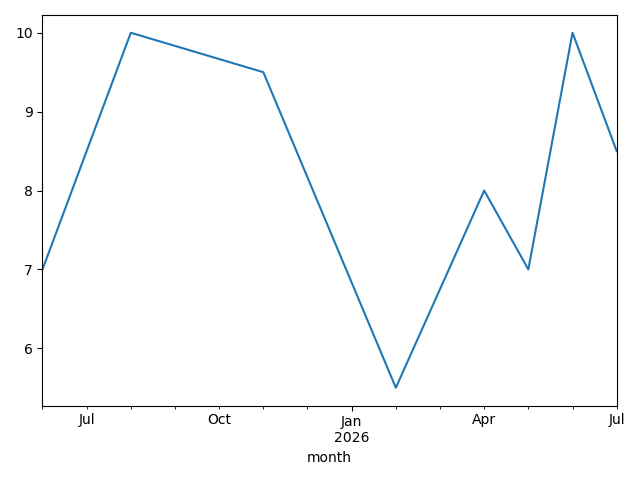
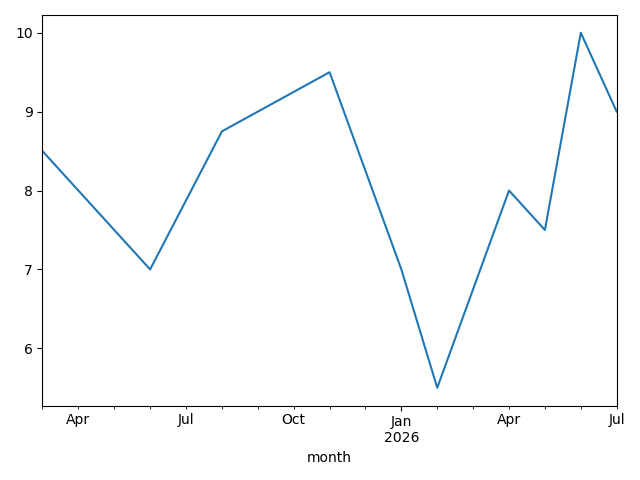
Added link to poster as well as other UI changes

diff --git a/templates/dashboard.html b/templates/dashboard.html
@@ -14,10 +14,12 @@
         <div class="movie-grid">
             {% for movie in movies %}
             <div class="movie-card">
-                <p>{{ movie.title }} ({{ movie.release_year }}) - My rating: {{ movie.my_rating }}</p>
-                {% if movie.poster_path %}
-                <img src="{{ TMDB_IMAGE_BASE_URL }}{{ movie.poster_path }}" alt="{{ movie.title }} Poster">
-                {% endif %}
+                <p>
+                    {% if movie.poster_path %}
+                    <img src="{{ TMDB_IMAGE_BASE_URL }}{{ movie.poster_path }}" alt="{{ movie.title }} Poster">
+                    {% endif %}
+                    {{ movie.title }} ({{ movie.release_year }}) - My rating: {{ movie.my_rating }}
+                </p>
             {% endfor %}
             </div>
         </div>

diff --git a/templates/movie_list.html b/templates/movie_list.html
@@ -13,10 +13,9 @@
             <div class="movie-card">
                 <p>
                     {% if movie.poster_path %}
-                    <img src="{{ TMDB_IMAGE_BASE_URL }}{{ movie.poster_path }}" alt="{{ movie.title }} Poster">
+                    <a href="/movies/{{ movie.id }}"><img src="{{ TMDB_IMAGE_BASE_URL }}{{ movie.poster_path }}" alt="{{ movie.title }} Poster"></a>
                     {% endif %}
-                    {{ movie.title }} ({{ movie.release_year }}) - {{ movie.my_rating }}/10.0
-                    <a href="/movies/{{ movie.id }}">View Details</a>
+                    {{ movie.title }} ({{ movie.release_year }}) - {{ movie.my_rating }}
                 </p>
             </div>
             {% endfor %}

diff --git a/app.py b/app.py
@@ -58,7 +58,7 @@ def confirm_movie(tmdb_id):
         session.close()
 
         # Redirect to the dashboard after saving the movie
-        return redirect(url_for('dashboard'))
+        return redirect(url_for('add_movie'))
 
 @app.route('/movies', methods=['GET'])
 def movie_list():
